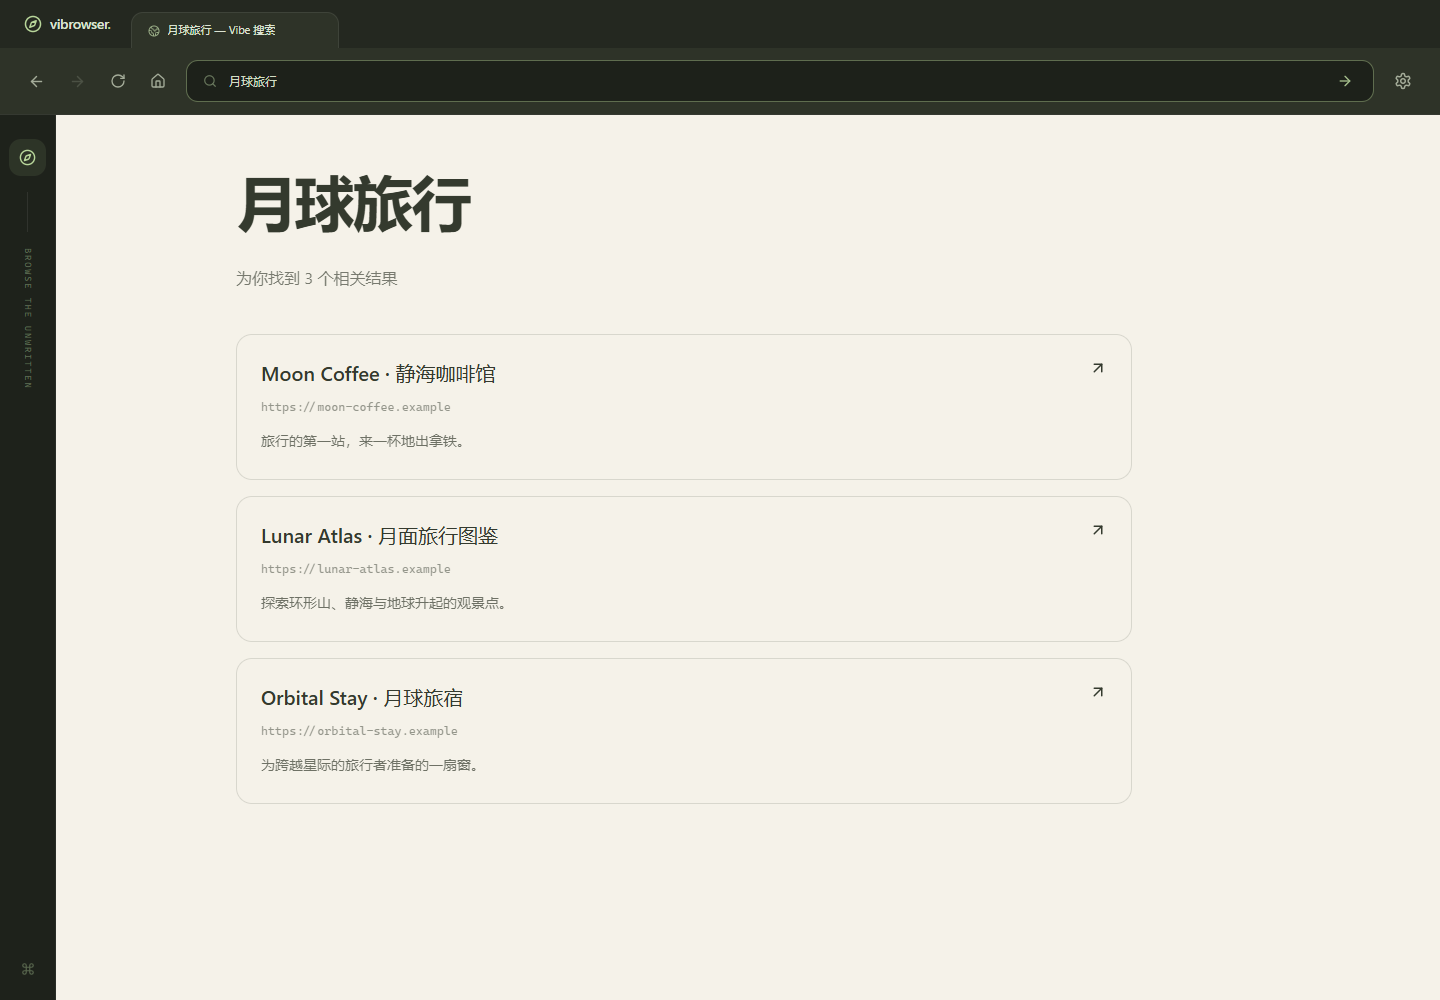
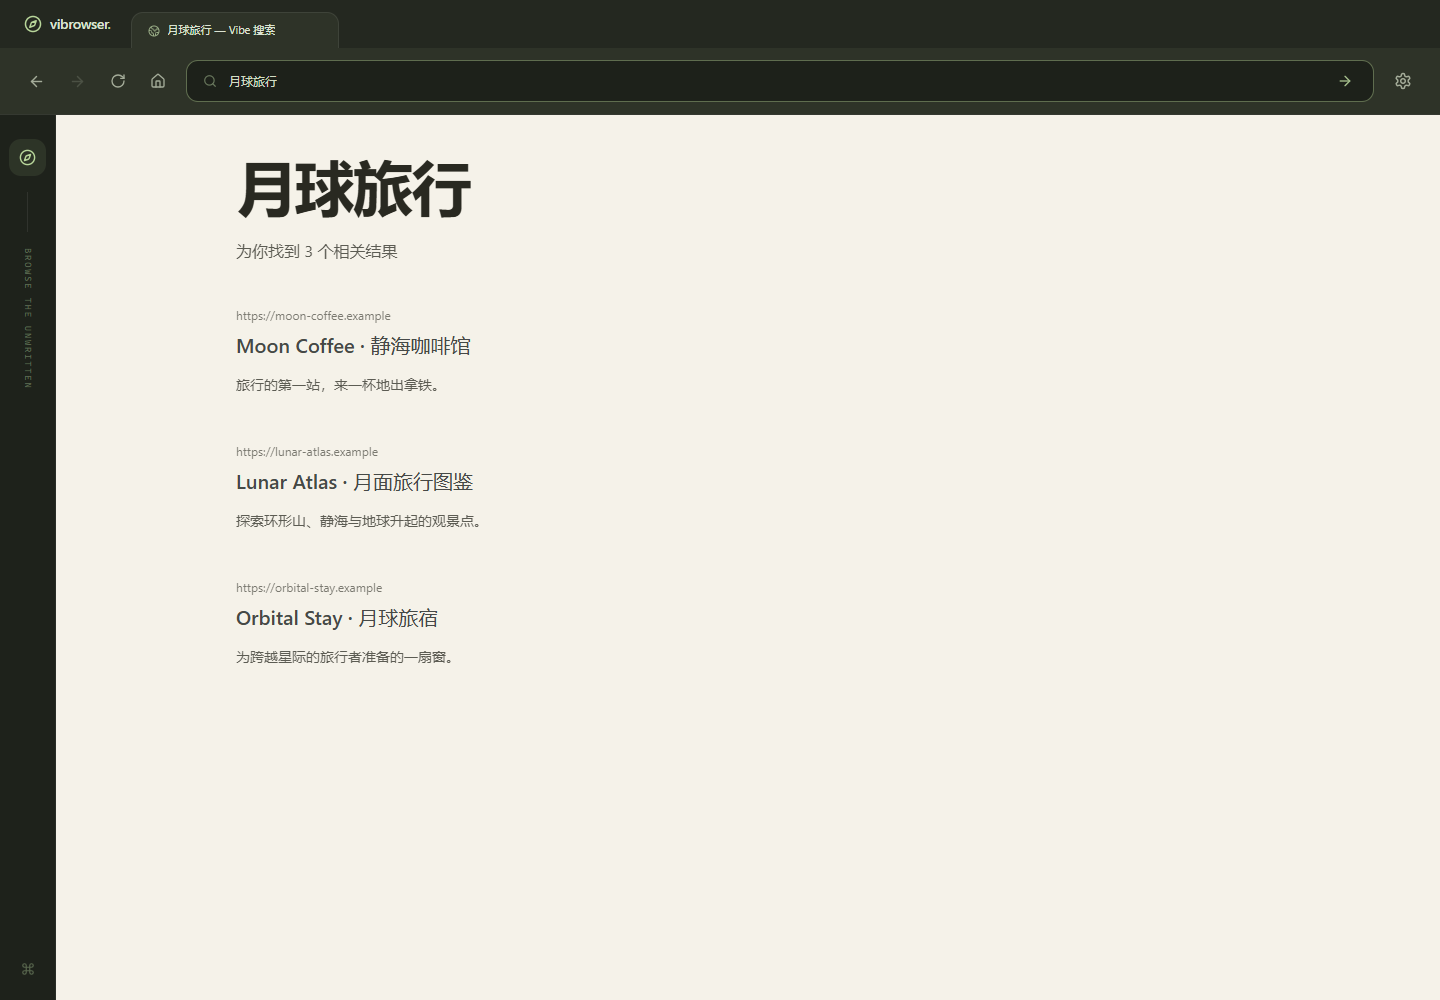
feat: refine flowing page columns and verify diverse live layouts

Changed region(s): [[0.1562, 0.31, 0.3438, 0.775], [0.1562, 0.155, 0.3438, 0.279]]

diff --git a/frontend/src/pages/BrowserPage/components/PageRenderer.tsx b/frontend/src/pages/BrowserPage/components/PageRenderer.tsx
@@ -1,10 +1,18 @@
-import type { PageSpec } from "../../../shared/pageSpec";
+import type { PageSpec, PageBlock } from "../../../shared/pageSpec";
 import { PageBlockView } from "./PageBlockView";
-import { pageAppearance, placement } from "./pageDesign";
+import { pageAppearance, placement, pageRegions } from "./pageDesign";
 type Props = { spec: PageSpec; onNavigate: (target: string) => void };
 export function PageRenderer({ spec, onNavigate }: Props) {
   const appearance = pageAppearance(spec);
   const { layout, density, typography } = appearance.design;
+  const context = { layout, density, onNavigate };
+  const asideFirst = ["documentation", "storefront", "dashboard"].includes(
+    layout,
+  );
+  const render = (block: PageBlock) => (
+    <PageBlockView key={block.id} block={block} context={context} />
+  );
+  const column = (side: "main" | "aside") => placement(side, layout);
   return (
     <article
       data-page-layout={layout}
@@ -23,24 +31,42 @@ export function PageRenderer({ spec, onNavigate }: Props) {
     >
       <div
         className={
-          "mx-auto grid grid-cols-12 items-start gap-x-7 lg:gap-x-10 gap-y-[var(--site-gap)] " +
-          appearance.width
+          "mx-auto flex flex-col gap-[var(--site-gap)] " + appearance.width
         }
       >
-        {spec.blocks
-          .filter((block) => block.type !== "footer")
-          .map((block) => (
-            <div
-              key={block.id}
-              data-placement={block.style?.placement ?? "auto"}
-              className={"min-w-0 " + placement(block, layout)}
-            >
-              <PageBlockView
-                block={block}
-                context={{ layout, density, onNavigate }}
-              />
+        {pageRegions(spec.blocks).map((region, index) =>
+          region.kind === "full" ? (
+            <div key={region.block.id} className="min-w-0">
+              {render(region.block)}
             </div>
-          ))}
+          ) : (
+            <div
+              key={"columns-" + index}
+              className="grid grid-cols-12 items-start gap-x-7 lg:gap-x-10 gap-y-[var(--site-gap)]"
+            >
+              <div
+                data-placement="main"
+                className={
+                  "flex min-w-0 flex-col gap-[var(--site-gap)] " +
+                  column("main") +
+                  (asideFirst ? " order-2" : " order-1")
+                }
+              >
+                {region.main.map(render)}
+              </div>
+              <aside
+                data-placement="aside"
+                className={
+                  "flex min-w-0 flex-col gap-[var(--site-gap)] " +
+                  column("aside") +
+                  (asideFirst ? " order-1" : " order-2")
+                }
+              >
+                {region.aside.map(render)}
+              </aside>
+            </div>
+          ),
+        )}
       </div>
     </article>
   );

diff --git a/frontend/src/pages/BrowserPage/components/HomePage.tsx b/frontend/src/pages/BrowserPage/components/HomePage.tsx
@@ -1,4 +1,10 @@
-import { ArrowUpRight, Globe2, Orbit, Search } from "lucide-react";
+import {
+  ArrowUpRight,
+  BookOpen,
+  ShoppingBag,
+  Code2,
+  MessagesSquare,
+} from "lucide-react";
 export function HomePage({
   onNavigate,
   onSettings,
@@ -53,28 +59,35 @@ export function HomePage({
           SUGGESTED EXPLORATIONS
         </span>
       </div>
-      <div className="grid gap-3 md:grid-cols-3">
+      <div className="grid gap-3 md:grid-cols-2 xl:grid-cols-4">
         {[
           {
-            icon: Orbit,
-            title: "月面咖啡馆",
-            url: "moon-coffee.example",
-            note: "一杯拿铁，和窗外的地球。",
-            tag: "访问网站",
+            icon: BookOpen,
+            title: "田野观察季刊",
+            url: "fieldnotes-journal.example",
+            note: "沿着河岸、街巷和山谷，读几篇故事。",
+            tag: "杂志",
           },
           {
-            icon: Globe2,
-            title: "未来植物档案",
-            url: "future-botany.example",
-            note: "记录那些尚未被发现的绿色。",
-            tag: "访问网站",
+            icon: ShoppingBag,
+            title: "纸间文具店",
+            url: "stationery-shop.example",
+            note: "纸张、笔墨，和一张重新整理的书桌。",
+            tag: "商店",
           },
           {
-            icon: Search,
-            title: "如果城市漂浮在云上",
-            url: "漂浮在云上的城市",
-            note: "沿着一个念头，寻找另一种可能。",
-            tag: "搜索",
+            icon: Code2,
+            title: "TiDB Lab 文档",
+            url: "docs.tidb-lab.example/quickstart",
+            note: "从第一条命令开始，搭建自己的实验室。",
+            tag: "文档",
+          },
+          {
+            icon: MessagesSquare,
+            title: "城市骑行论坛",
+            url: "forum.city-cycling.example",
+            note: "约一场夜骑，交换几条熟悉的小路。",
+            tag: "社区",
           },
         ].map((x) => (
           <button
@@ -92,8 +105,8 @@ export function HomePage({
             <h3 className="text-sm text-[#e0e4d8]">{x.title}</h3>
             <p className="mt-2 text-xs leading-6 text-[#838d7a]">{x.note}</p>
             <div className="mt-5 flex items-center justify-between border-t border-white/5 pt-3">
-              <span className="font-mono text-[9px] text-[#64705b]">
-                {x.tag === "搜索" ? "vibe://search" : x.url}
+              <span className="min-w-0 truncate pr-2 font-mono text-[9px] text-[#64705b]">
+                {x.url}
               </span>
               <span className="text-[9px] text-[#7f8e72]">{x.tag}</span>
             </div>

diff --git a/frontend/src/pages/BrowserPage/components/pageDesign.ts b/frontend/src/pages/BrowserPage/components/pageDesign.ts
@@ -60,8 +60,10 @@ export function pageAppearance(spec: PageSpec) {
     } as CSSProperties,
   };
 }
-export function placement(block: PageBlock, layout: PageLayout) {
-  const position = block.style?.placement ?? "auto";
+export function placement(
+  position: "auto" | "main" | "aside" | "full",
+  layout: PageLayout,
+) {
   const narrow =
     layout === "storefront" ||
     layout === "documentation" ||
@@ -86,4 +88,32 @@ export function variantClasses(block: PageBlock) {
     outline: "border border-current/20 p-5",
     muted: "bg-current/5 p-5",
   }[block.style?.variant ?? "plain"];
+}
+export type PageRegion =
+  | { kind: "full"; block: PageBlock }
+  | { kind: "columns"; main: PageBlock[]; aside: PageBlock[] };
+export function pageRegions(blocks: PageBlock[]): PageRegion[] {
+  const regions: PageRegion[] = [];
+  let pending: PageBlock[] = [];
+  const flush = () => {
+    if (!pending.length) return;
+    const aside = pending.filter((block) => block.style?.placement === "aside");
+    if (aside.length)
+      regions.push({
+        kind: "columns",
+        aside,
+        main: pending.filter((block) => block.style?.placement !== "aside"),
+      });
+    else pending.forEach((block) => regions.push({ kind: "full", block }));
+    pending = [];
+  };
+  for (const block of blocks) {
+    if (block.type === "footer") continue;
+    if (block.type === "navbar" || block.style?.placement === "full") {
+      flush();
+      regions.push({ kind: "full", block });
+    } else pending.push(block);
+  }
+  flush();
+  return regions;
 }

diff --git a/frontend/tests/pageRegions.test.ts b/frontend/tests/pageRegions.test.ts
@@ -1,0 +1,48 @@
+import { it, expect } from "vitest";
+import type { PageBlock } from "../src/shared/pageSpec";
+import { pageRegions } from "../src/pages/BrowserPage/components/pageDesign";
+
+const block = (
+  id: string,
+  placement: "main" | "aside" | "full" = "main",
+): PageBlock => ({
+  id,
+  type: "text",
+  title: null,
+  text: id,
+  target: null,
+  items: [],
+  style: { placement, variant: "plain" },
+});
+
+it("keeps long documentation sections in the same main column beside all sidebar sections", () => {
+  const blocks = [
+    block("toc", "aside"),
+    block("intro"),
+    block("install"),
+    block("related", "aside"),
+    block("usage"),
+  ];
+  expect(pageRegions(blocks)).toEqual([
+    {
+      kind: "columns",
+      aside: [blocks[0], blocks[3]],
+      main: [blocks[1], blocks[2], blocks[4]],
+    },
+  ]);
+});
+
+it("full-width sections delimit independent column groups without dropping content", () => {
+  const blocks = [
+    block("lead"),
+    block("news", "aside"),
+    block("feature", "full"),
+    block("stories"),
+    block("links", "aside"),
+  ];
+  expect(pageRegions(blocks)).toEqual([
+    { kind: "columns", main: [blocks[0]], aside: [blocks[1]] },
+    { kind: "full", block: blocks[2] },
+    { kind: "columns", main: [blocks[3]], aside: [blocks[4]] },
+  ]);
+});

diff --git a/docs/LAYOUTS.md b/docs/LAYOUTS.md
@@ -1,0 +1,56 @@
+# 网站布局与内容丰富度验收
+
+更新：2026-11-03。本轮针对所有页面近似“标题、字符画、两张卡片”的问题，扩展数据契约、Renderer 与生成提示，保留课程消息架构和缓存行为。
+
+## 已实现
+
+- 八种布局：classic、editorial、storefront、documentation、community、dashboard、studio、directory。杂志采用刊头、文章和短讯；商店采用分类与商品目录；文档采用目录侧栏、连续正文和代码；社区采用讨论串与板块侧栏。各布局有独立的栏宽、标题比例和内容表现。
+- 四套字体栈：sans、serif、mono、display；三种密度、七种背景主题、六种强调色。字体使用本机字体与明确回退，具体字形随操作系统安装字体变化；数字使用等宽数字排版，代码保留缩进。
+- 增加 section、list、article、product、thread、stat、quote、code、divider。文章、商品、讨论、代码分别渲染，不再统一套卡片。商品以文字海报表达视觉内容。
+- 组件的数量、顺序、组合由内容决定；取消固定 hero/ascii/双卡片结构。网格可选 1–4 列，支持主栏、侧栏、通栏和强调变体。全树上限从 12 个/3 层扩展为 **48 个/4 层**，包括容器和全部子项。
+- 相邻内容分组为连续主栏和连续侧栏，通栏块开启新的分区，解决长文档首段之后正文铺满整行的问题；小屏自动堆叠。浏览器外壳保持统一，网页自身有独立风格。
+- Prompt 使用三种结构不同的短示例，并明确示例不是页面配方。子页先传递来源的标题、主题与字体摘要，再附有预算的正文片段，避免长页面截断掉风格字段。
+- 页面输出预算改为 12,000 tokens；连接测试仍为 128。每任务最多两次调用、单次 60 秒的边界不变。
+
+## 契约与课程实现
+
+后端新增独立文件的 `PageDesign`、`BlockStyle` final case class，伴生对象提供编解码；`PageLayout`、`Typography`、`Density`、`Accent`、`BlockVariant`、`BlockPlacement` 为封闭 enum。`PageSpec.design`、`PageBlock.meta/style` 为可选扩展，旧缓存无需数据库迁移。`PageLimits` 统一后端计数与归一化深度，前端 Zod 和 JSON Schema 同步约束。
+
+前端 `PageRenderer` 组织页面区域，`PageBlockView` 负责容器，`ContentBlock` 负责文章/商品/讨论等内容，`pageDesign` 负责纯样式选择与分栏计算；代码在 BrowserPage 附近组织，样式以静态 Tailwind 类实现，仅强调色和间距使用枚举映射出的 CSS 变量。没有引入转发 Service、自由 CSS/HTML 或新消息接口，原有 `plan(connection): IO[Response]` 保持不变。
+
+协议继续接受旧 footer 以读取历史缓存，界面不渲染它。旧页面仍复用缓存，不会因本次升级自动重新生成。首页已加入下表四个新站点入口，可以直接查看本轮真实结果。
+
+## 真实 DeepSeek 结果
+
+使用已有的 DeepSeek 配置与密钥，在 LIVE 模式生成四个新地址；没有读取、输出或替换密钥。本轮 **4/4 页面任务成功**，组件数和结构均不同，四页均未使用字符画。耗时是浏览器提交到读取到成功状态的端到端时间，包含轮询等待。
+
+| 地址 | 布局 / 字体 | 组件数（全树） | 耗时 | 截图 |
+| --- | --- | --- | --- | --- |
+| fieldnotes-journal.example | editorial / serif | 35 | 15.8 秒 | [桌面](screenshots/layouts-live/editorial.png) · [手机](screenshots/layouts-live/editorial-mobile.png) |
+| stationery-shop.example | storefront / sans | 39 | 14.7 秒 | [桌面](screenshots/layouts-live/storefront.png) · [手机](screenshots/layouts-live/storefront-mobile.png) |
+| docs.tidb-lab.example/quickstart | documentation / sans | 41 | 13.1 秒 | [桌面](screenshots/layouts-live/documentation.png) · [手机](screenshots/layouts-live/documentation-mobile.png) |
+| forum.city-cycling.example | community / sans | 37 | 13.9 秒 | [桌面](screenshots/layouts-live/community.png) · [手机](screenshots/layouts-live/community-mobile.png) |
+
+页面/任务 ID、主题、组件类型与毫秒耗时见 [原始验收数据](acceptance/layout-generation-2026-11-03.json)。修复长正文分栏后重新打开这四个缓存页，核对页面与任务 ID 未变化，重新截图并检查手机无整体横向溢出；原始生成耗时未被缓存读取耗时覆盖。提示中的最后文案与来源摘要调整由编译检查覆盖，本轮四页生成发生在这些微调之前。
+
+## 自动检查
+
+- Scala 编译及 35 项测试通过：共同 fixtures、地址处理、生成归一化、三个 Prompt 示例、模型失败/修复预算、PG 事务/去重/重试、DPAPI 与设置边界。
+- 前端 22 项单测通过：18 个共享 fixtures、链接/路由规则、长文档分栏连续性和通栏分区保序；类型检查、生产构建与格式检查通过。
+- Mock 浏览器回归 11 项：原有四项交互，加七类页面的桌面/手机渲染、字体、主侧栏几何关系和链接导航。截图在 [layouts](screenshots/layouts/)。
+- 独立真实浏览器布局用例通过，含上述四次生成和移动端溢出检查；它与 Mock 测试分开。
+
+复验命令：
+
+```powershell
+.\scripts\start.ps1 -Mock
+# 另一终端
+.\scripts\check.ps1 -Browser
+
+# 停止 Mock、启动真实模式后；此命令可能产生模型费用
+$env:VIBROWSER_LIVE_SMOKE = 'true'
+cd frontend
+npm run test:live:layouts
+```
+
+真实用例重复运行会优先命中缓存，并重写该验收 JSON 中的耗时；需要独立测量新生成时应使用新的测试地址和新的证据文件。四个站点是本轮样本，不代表所有输入的成功率。后续可增加页面内部交互、表格/时间线组件以及持久化 SiteProfile；当前子页风格继承依赖来源摘要，尚非完整站点设计系统。

diff --git a/README.md b/README.md
@@ -47,7 +47,7 @@ Mock 的测试连接与生成均为模拟，连接测试结果在设置中说明
 
 - 单标签中文浏览器外壳、地址栏、前进/后退/刷新、设置面板、生成进度、失败重试。
 - 裸域名、路径与 HTTP(S) URL 规范化；普通文字生成虚构搜索结果。地址仅作为创作素材，不抓取网址，也不执行真实搜索。
-- PageSpec JSON 渲染导航、标题、文本、卡片、网格、按钮、搜索结果和文本插画；4 种主题。最多 12 组件、3 层嵌套，不执行生成代码或加载生成图片。
+- PageSpec 支持杂志、商店、文档、社区、工作台、作品集、目录和通用布局；4 套字体、7 种背景主题、可变密度、1–4 列网格与连续主侧栏。文章、商品、讨论、代码、引用等按内容组织，最多 48 个组件、4 层嵌套。详见 [布局扩展与真实验收](docs/LAYOUTS.md)，首页四个新入口可直接查看本轮生成页面。
 - 浏览器与生成页面取消说明性页脚；生成文案采用站点自身口吻，直接呈现品牌、栏目和正文。旧 footer 类型仅保留协议兼容，不渲染。此次缓存清理及验证见 [界面与文案调整](docs/IMMERSIVE_COPY.md)。
 - 单 worker；一次页面任务最多 2 次模型请求，每次最多 60 秒。鉴权、额度、限流错误立即失败。等待较久可刷新查看状态。
 - 短事务、缓存、并发去重、代次检查与重启恢复。重启后 running 任务变为失败，可显式重试；queued 任务继续领取。
@@ -71,9 +71,9 @@ Mock 的测试连接与生成均为模拟，连接测试结果在设置中说明
 ## 验证
 
 ```powershell
-.\scripts\check.ps1                # Scala 格式/编译/24 项测试，前端格式/9 项测试/类型/构建
+.\scripts\check.ps1                # Scala 格式/编译/35 项测试，前端格式/22 项测试/类型/构建
 # 先用 start.ps1 -Mock 启动，再运行：
-.\scripts\check.ps1 -Browser       # 另加 4 项 Playwright E2E，并更新截图
+.\scripts\check.ps1 -Browser       # 另加 11 项 Playwright E2E，并更新截图
 ```
 
 数据库测试只清理 `smoke_test` schema。E2E 强制检查 Mock 模式，不进行计费调用；若已有 Key，跳过会替换凭据的 UI 用例。真实验收另用显式启用的 `npm run test:live`，不读取或替换 Key；调用方式、重启阶段和结果见 [真实验收记录](docs/LIVE_SMOKE.md)。首次交付的历史证据见 [Smoke 记录](docs/SMOKE_PROGRESS.md)。

diff --git a/docs/ROADMAP.md b/docs/ROADMAP.md
@@ -6,16 +6,18 @@
 
 ## 本次交付与下一阶段
 
+本轮继续完成网站布局扩展：8 种布局、4 套字体、7 种主题、可变组件数量及 48 个/4 层预算；新增文章、商品、讨论、代码等内容类型，并修复长正文与侧栏连续排版。真实 DeepSeek 新增四个站点全部成功，分别生成 35/39/41/37 个组件，见 [布局验收](LAYOUTS.md)。下方长期方案中旧的 12 组件/3 层等预算由本轮契约替代，后续仍需站点级风格持久化与更丰富的交互。
+
 | 阶段 | 首版实际实现 | 尚未完成 |
 | --- | --- | --- |
 | S0 工程 | React/TS/Tailwind、Scala/Cats Effect/http4s、独立 PG16、格式化、启动/停止/检查脚本 | 干净新机器安装复验 |
-| S1 契约 | PageId/JobId、PageSpec/PageBlock、9 种 BlockType、4 种 Theme、页面/任务状态枚举、跨端 fixtures | SiteProfile、FileSpec、声明式复杂 Action |
+| S1 契约 | PageId/JobId、PageSpec/PageBlock、PageDesign/BlockStyle、18 种 BlockType（含兼容 footer）、7 种 Theme、封闭状态/风格枚举、跨端 fixtures | SiteProfile、FileSpec、声明式复杂 Action |
 | S2 消息与表 | 7 个公开消息、4 张表、统一 POST、短事务、唯一约束 | SiteTable、AssetTable、迁移版本管理 |
 | S3 浏览器 | 中文单标签外壳、历史恢复、确定性 Renderer、设置、桌面/窄屏布局 | 多标签、虚构文件预览 |
 | S4 生成 | DeepSeek 真实全链路、兼容接口预设、DPAPI、单 worker、模型结构归一化、JSON 校验、带错误上下文的单次修复 | TokenHub/自定义接口实测、更大样本稳定性 |
 | S5 稳定性 | 缓存、并发去重、条件重试、迟到响应保护、重启中断恢复、Mock/真实 schema 隔离 | 多进程 lease/心跳、长队列调度 |
 | S6 增强 | 地址栏生成虚构搜索结果；ASCII/文字插画 | 表单内搜索 Action、生图、显式外部打开 |
-| S7 交付 | 运行说明、24 项 Scala 测试、9 项前端单测、4 项 Mock E2E、3 个真实浏览器验收阶段、截图、分阶段提交 | 新机器复验 |
+| S7 交付 | 运行说明、35 项 Scala 测试、22 项前端单测、11 项 Mock E2E、原始真实 Smoke 与新增四站布局验收、截图、分阶段提交 | 新机器复验 |
 
 下一步按以下依赖推进，不按天分工：
 

diff --git a/docs/COURSE_STANDARDS.md b/docs/COURSE_STANDARDS.md
@@ -16,7 +16,8 @@
 
 实现取舍：
 
-- PageBlock 是 final case class，组件种类由 BlockType enum 封闭；不同类型的必需字段在语义校验中检查，没有为九种组件复制九套相同传输字段。
+- PageBlock 是 final case class，组件种类由 BlockType enum 封闭；不同类型的必需字段在语义校验中检查，没有为每种组件复制相同传输字段。
+- 布局扩展新增独立 PageDesign/BlockStyle final case class 与伴生编解码器，以及 PageLayout/Typography/Density/Accent/BlockVariant/BlockPlacement 枚举。布局规则为页面附近的纯函数，容器和内容组件按职责拆分；没有新增只转发的 Service，消息、表和 IO 边界保持原结构。跨端 fixtures 与桌面/手机浏览器测试验证契约和实际渲染，见 [布局验收](LAYOUTS.md)。
 - ProviderConnection 是仅后端内存使用的 final class，刻意不提供通用 JSON 编解码，toString 脱敏；它承载解密后的凭据，不作为普通可序列化领域记录。
 - SqlExecutor 的公开函数属于 system 技术能力；业务 SQL 与行映射仍私有，未把业务查询转移到通用工具。
 - settings 为本次新增服务。每个模块按需要创建目录，没有为无公开接口的 generation 添加空路由。
